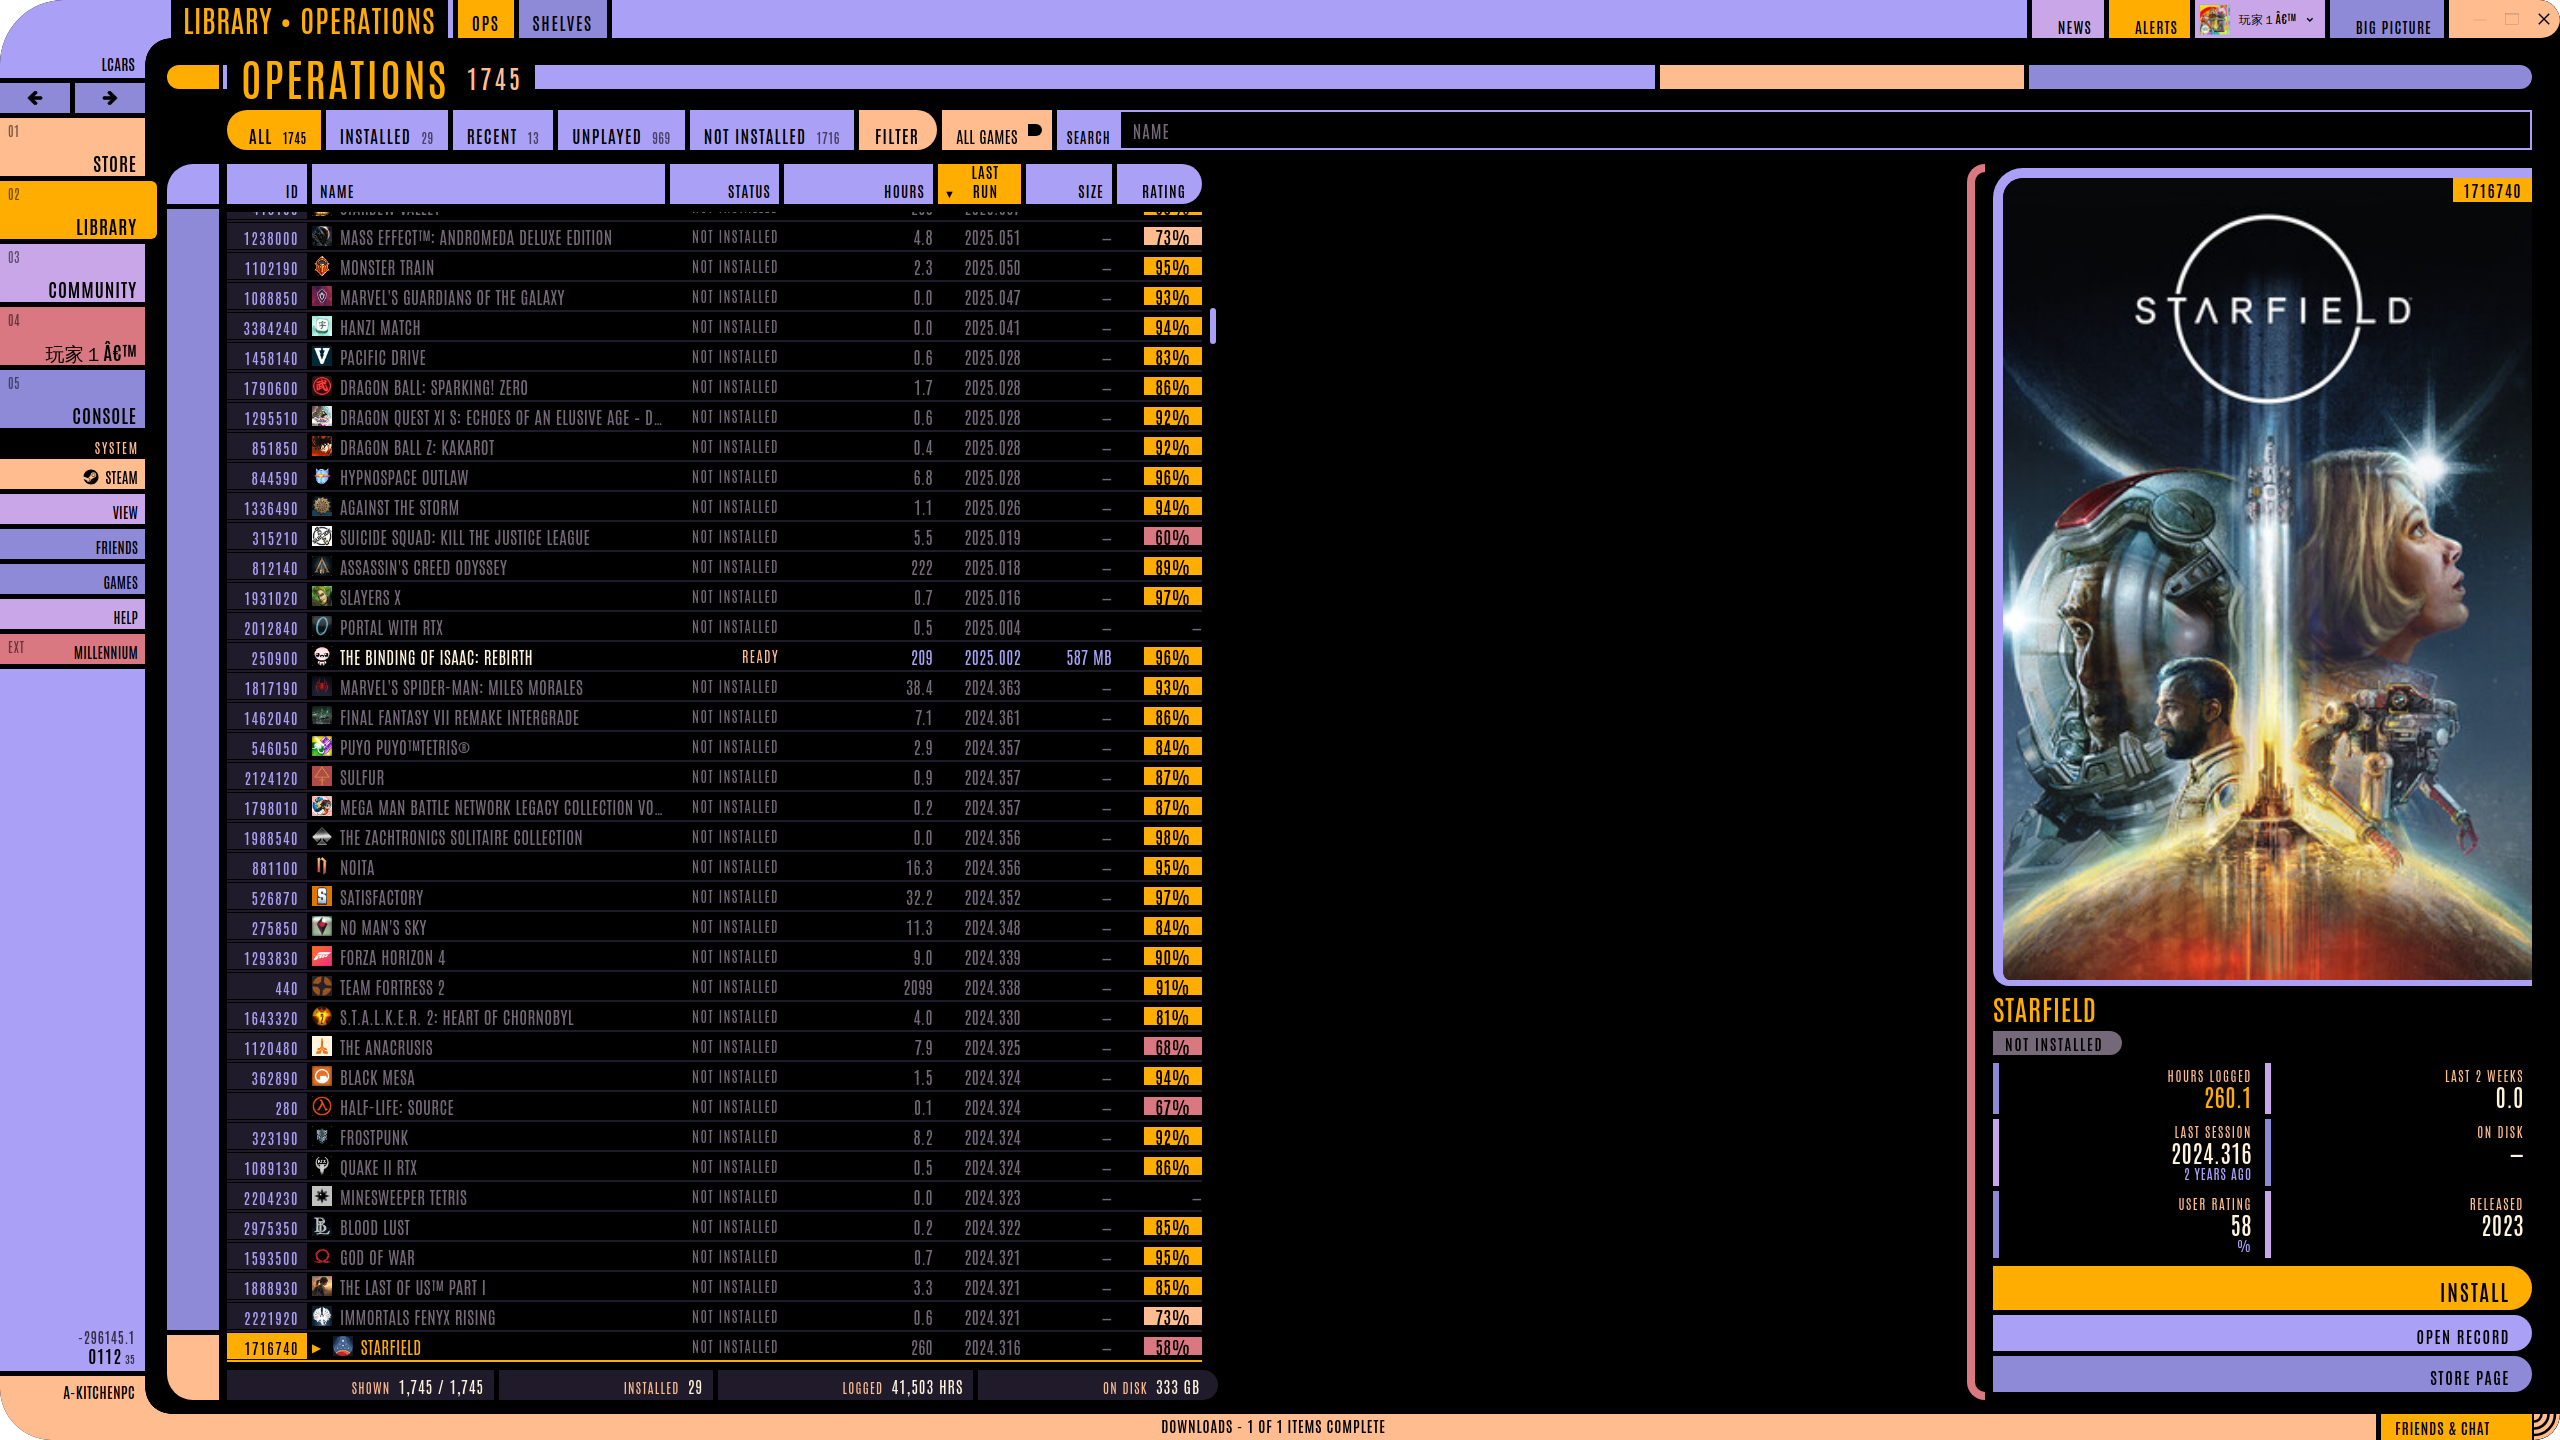
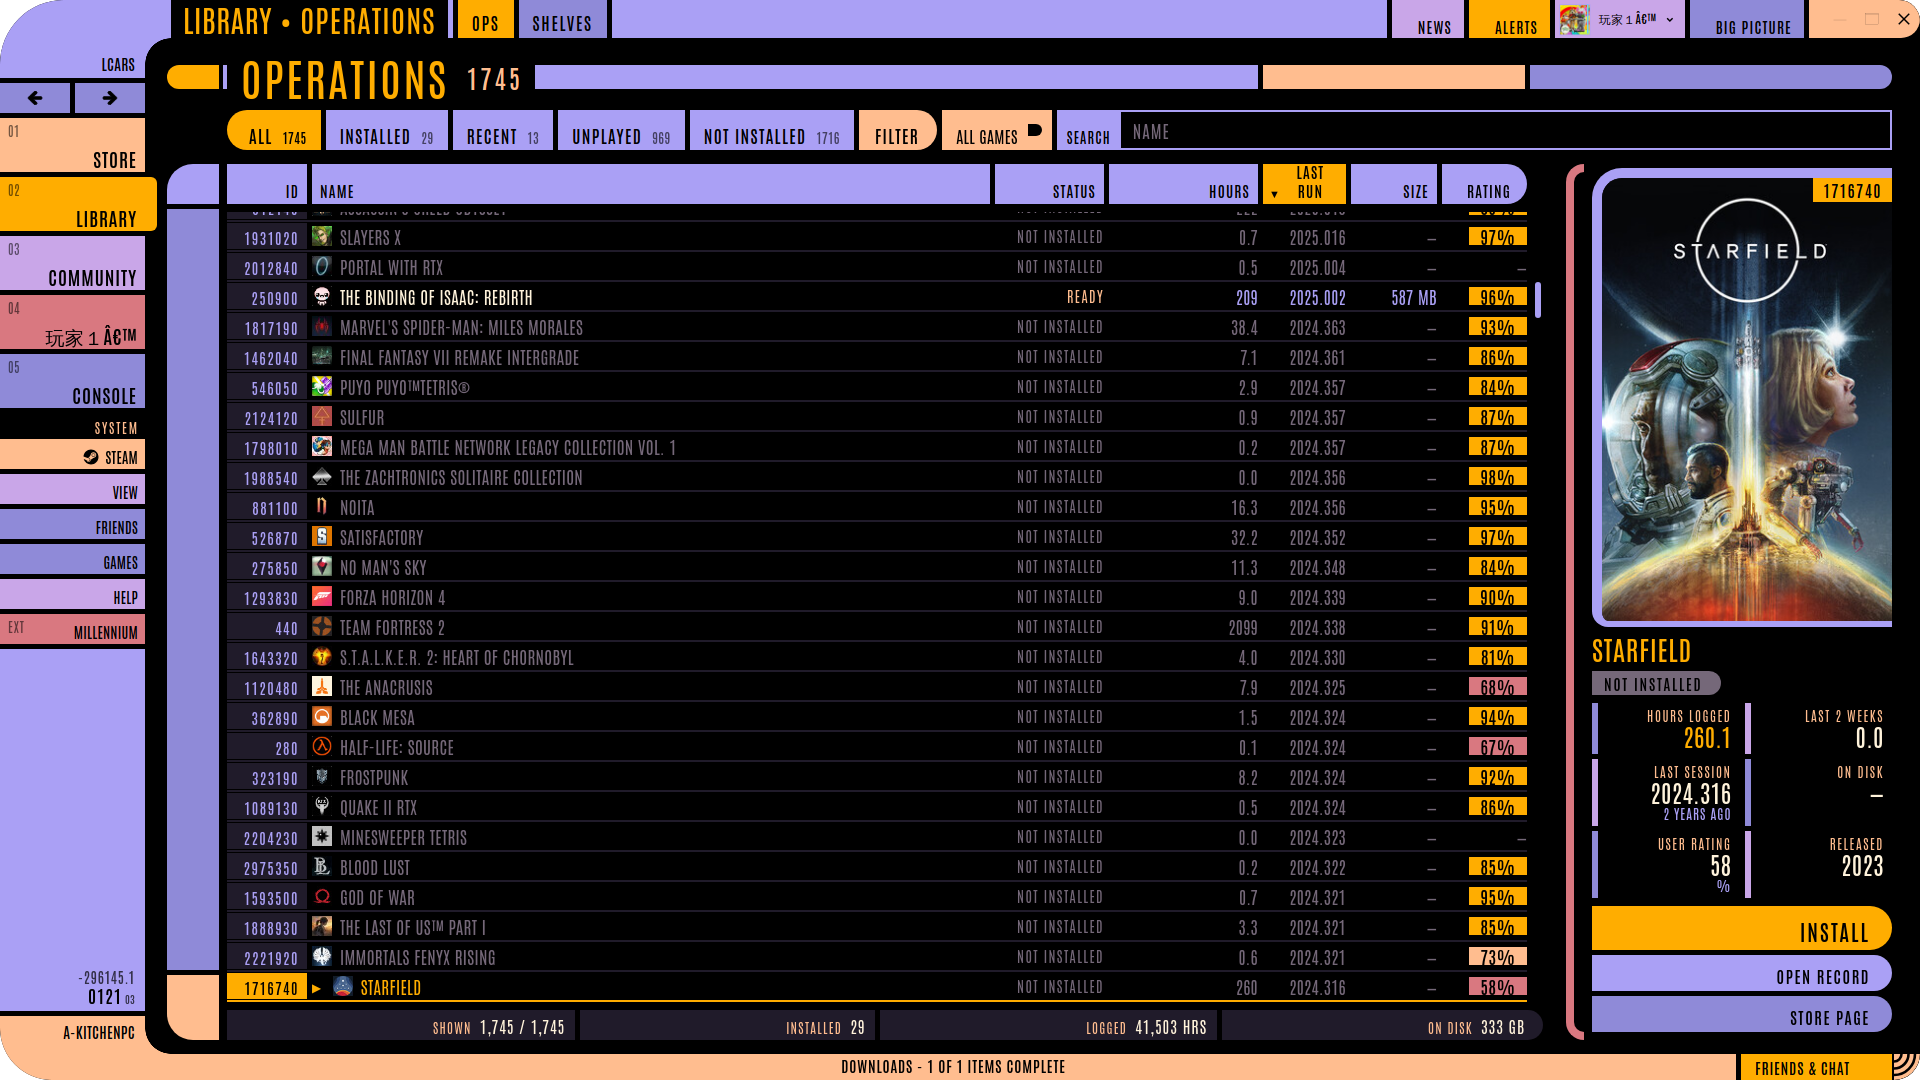
Make Ops fill the window; recapture screenshots at 1920x1080

diff --git a/js/ops.js b/js/ops.js
@@ -13,7 +13,7 @@ import {
 	gameMenu, host, hours, navigate, pad, record, rowHeight, statusOf, year,
 } from './data.js';
 import {
-	registry, prefs, emit, on, visibleColumns, columnTemplate, nameWidth, visibleTabs,
+	registry, prefs, emit, on, visibleColumns, columnTemplate, visibleTabs,
 } from './ops-api.js';
 
 const KEY = '__lcarsV2OpsV1';
@@ -365,8 +365,8 @@ function build() {
 
 	// The card comes first (user, round 6): as wide as its art can be at this window
 	// height, so the art is always as big as it can be, with no dead space beside it.
-	// Columns keep their set widths and spare room stays as a gap between the register
-	// and the card. When room runs out NAME gives way, down to its minimum, then the card
+	// NAME takes whatever the other columns and the card leave, so the register always
+	// fills the window. When room runs out NAME stops at its minimum, then the card goes
 	// down to its floor (the readout scales to fit, css/ops.css), and then the register
 	// scrolls sideways rather than the card leaving the window.
 	let lastName = 0;
@@ -395,9 +395,7 @@ function build() {
 		let name = 0;
 		if (at >= 0) {
 			const c = registry.columns.get('name');
-			// --c-name-w is the width a NAME drag asks for (js/ops-columns.js).
-			const want = parseFloat(root.style.getPropertyValue('--c-name-w')) || nameWidth(c);
-			name = Math.round(Math.max(c.min || 160, Math.min(want, room - fixed - portrait)));
+			name = Math.round(Math.max(c.min || 160, room - fixed - portrait));
 			// The readout's height follows the card's width and the art follows that, so let it settle.
 			if (Math.abs(name - lastName) < 2) name = lastName;
 			lastName = name;

diff --git a/js/ops-columns.js b/js/ops-columns.js
@@ -290,7 +290,7 @@ function addGrips(head) {
 
 // The live template: the dragged column reads its --c-<id>-w var, so a move
 // updates the root's variables and not each row. NAME's track is already a
-// variable; ops.js fit() reads --c-name-w as the width being asked for.
+// variable: ops.js fit() gives it the room the other columns leave.
 function liveTemplate(id) {
 	const widths = prefs.get('colw', {});
 	return visibleColumns().map(c => {
